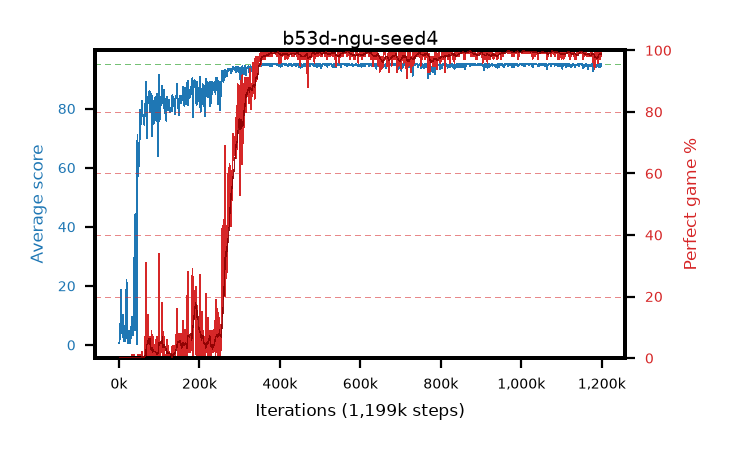
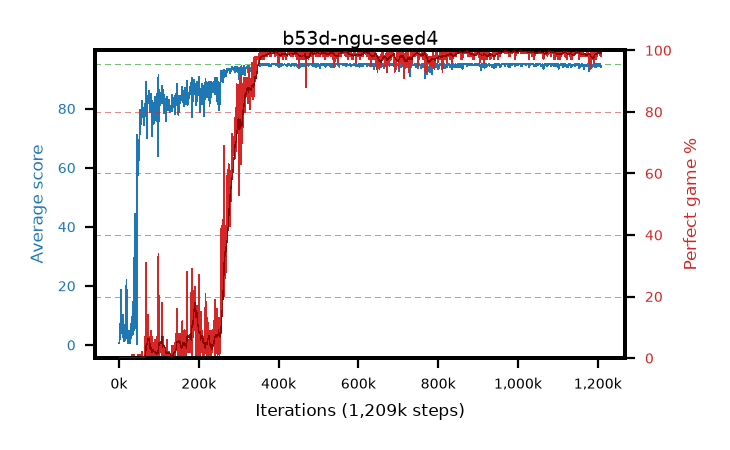
live pictures of 4 arm(s)

diff --git a/results/b53d-ngu-seed4/b53d-ngu-seed4.md b/results/b53d-ngu-seed4/b53d-ngu-seed4.md
@@ -1,6 +1,6 @@
 # b53d-ngu-seed4
 
-step **1,199,000** · 1199 evals · trailing **94.55** · peak **94.94** @1,040,000 · sef **74.8** · best30 **99.7** @1,024,000
+step **1,209,000** · 1209 evals · trailing **94.59** · peak **94.94** @1,040,000 · sef **75.0** · best30 **99.7** @1,024,000
 
 ## Config
 
@@ -80,15 +80,15 @@ step **1,199,000** · 1199 evals · trailing **94.55** · peak **94.94** @1,040,
 | 2000 | 2.39 | 1.47 | 0.0 | 8.0 | 1.286 | 0.0 | 0.4 |
 | 3000 | 6.99 | 3.31 | 0.0 | 25.0 | 5.34 | 0.0 | 0.4 |
 | ... | ... | ... | ... | ... | ... | ... | ... |
-| 1188000 | 94.45 | 94.54 | 40.0 | 95.0 | 192.115 | 99.0 | 0.4 |
-| 1189000 | 95.0 | 94.56 | 95.0 | 95.0 | 193.72 | 100.0 | 0.4 |
-| 1190000 | 94.49 | 94.54 | 44.0 | 95.0 | 192.139 | 99.0 | 0.4 |
-| 1191000 | 94.75 | 94.54 | 83.0 | 95.0 | 189.392 | 96.0 | 0.4 |
-| 1192000 | 94.21 | 94.52 | 16.0 | 95.0 | 191.887 | 99.0 | 0.4 |
-| 1193000 | 95.0 | 94.53 | 95.0 | 95.0 | 193.701 | 100.0 | 0.4 |
-| 1194000 | 95.0 | 94.54 | 95.0 | 95.0 | 193.717 | 100.0 | 0.4 |
-| 1195000 | 95.0 | 94.54 | 95.0 | 95.0 | 193.72 | 100.0 | 0.4 |
-| 1196000 | 93.96 | 94.55 | 42.0 | 95.0 | 189.551 | 97.0 | 0.4 |
-| 1197000 | 94.31 | 94.56 | 26.0 | 95.0 | 191.983 | 99.0 | 0.4 |
 | 1198000 | 95.0 | 94.57 | 95.0 | 95.0 | 193.711 | 100.0 | 0.4 |
 | 1199000 | 94.31 | 94.55 | 29.0 | 95.0 | 190.94 | 98.0 | 0.4 |
+| 1200000 | 95.0 | 94.55 | 95.0 | 95.0 | 193.718 | 100.0 | 0.4 |
+| 1201000 | 94.95 | 94.56 | 90.0 | 95.0 | 192.662 | 99.0 | 0.4 |
+| 1202000 | 94.95 | 94.56 | 90.0 | 95.0 | 192.673 | 99.0 | 0.4 |
+| 1203000 | 94.34 | 94.56 | 29.0 | 95.0 | 192.022 | 99.0 | 0.4 |
+| 1204000 | 95.0 | 94.56 | 95.0 | 95.0 | 193.723 | 100.0 | 0.4 |
+| 1205000 | 95.0 | 94.56 | 95.0 | 95.0 | 193.712 | 100.0 | 0.4 |
+| 1206000 | 94.95 | 94.55 | 90.0 | 95.0 | 192.626 | 99.0 | 0.4 |
+| 1207000 | 94.23 | 94.56 | 23.0 | 95.0 | 190.915 | 98.0 | 0.4 |
+| 1208000 | 94.52 | 94.54 | 47.0 | 95.0 | 192.204 | 99.0 | 0.4 |
+| 1209000 | 94.25 | 94.59 | 20.0 | 95.0 | 191.931 | 99.0 | 0.4 |

diff --git a/results/b53a-ngu-seed1/b53a-ngu-seed1.md b/results/b53a-ngu-seed1/b53a-ngu-seed1.md
@@ -1,6 +1,6 @@
 # b53a-ngu-seed1
 
-step **1,199,000** · 1199 evals · trailing **94.63** · peak **94.96** @643,000 · sef **76.6** · best30 **99.7** @643,000
+step **1,209,000** · 1209 evals · trailing **94.67** · peak **94.96** @643,000 · sef **76.8** · best30 **99.7** @643,000
 
 ## Config
 
@@ -80,15 +80,15 @@ step **1,199,000** · 1199 evals · trailing **94.63** · peak **94.96** @643,00
 | 2000 | 8.43 | 4.84 | 0.0 | 21.0 | 7.201 | 0.0 | 0.4 |
 | 3000 | 8.52 | 6.07 | 0.0 | 26.0 | 5.525 | 0.0 | 0.4 |
 | ... | ... | ... | ... | ... | ... | ... | ... |
-| 1188000 | 95.0 | 94.57 | 95.0 | 95.0 | 193.657 | 100.0 | 0.4 |
-| 1189000 | 94.1 | 94.55 | 5.0 | 95.0 | 191.773 | 99.0 | 0.4 |
-| 1190000 | 94.96 | 94.57 | 93.0 | 95.0 | 191.659 | 98.0 | 0.4 |
-| 1191000 | 94.93 | 94.57 | 89.0 | 95.0 | 191.567 | 98.0 | 0.4 |
-| 1192000 | 94.94 | 94.58 | 89.0 | 95.0 | 192.604 | 99.0 | 0.4 |
-| 1193000 | 94.96 | 94.59 | 91.0 | 95.0 | 192.625 | 99.0 | 0.4 |
-| 1194000 | 94.94 | 94.61 | 92.0 | 95.0 | 191.592 | 98.0 | 0.4 |
-| 1195000 | 94.64 | 94.61 | 78.0 | 95.0 | 189.261 | 96.0 | 0.4 |
-| 1196000 | 94.96 | 94.62 | 91.0 | 95.0 | 192.613 | 99.0 | 0.4 |
-| 1197000 | 94.78 | 94.63 | 73.0 | 95.0 | 192.439 | 99.0 | 0.4 |
 | 1198000 | 94.12 | 94.6 | 13.0 | 95.0 | 189.75 | 97.0 | 0.4 |
 | 1199000 | 94.81 | 94.63 | 85.0 | 95.0 | 190.441 | 97.0 | 0.4 |
+| 1200000 | 94.81 | 94.66 | 79.0 | 95.0 | 191.475 | 98.0 | 0.4 |
+| 1201000 | 94.41 | 94.67 | 36.0 | 95.0 | 192.068 | 99.0 | 0.4 |
+| 1202000 | 94.16 | 94.65 | 50.0 | 95.0 | 188.793 | 96.0 | 0.4 |
+| 1203000 | 94.62 | 94.68 | 60.0 | 95.0 | 191.277 | 98.0 | 0.4 |
+| 1204000 | 93.96 | 94.65 | 20.0 | 95.0 | 190.595 | 98.0 | 0.4 |
+| 1205000 | 94.83 | 94.65 | 78.0 | 95.0 | 192.494 | 99.0 | 0.4 |
+| 1206000 | 94.98 | 94.66 | 93.0 | 95.0 | 192.667 | 99.0 | 0.4 |
+| 1207000 | 95.0 | 94.66 | 95.0 | 95.0 | 193.688 | 100.0 | 0.4 |
+| 1208000 | 95.0 | 94.67 | 95.0 | 95.0 | 193.68 | 100.0 | 0.4 |
+| 1209000 | 94.93 | 94.67 | 88.0 | 95.0 | 192.624 | 99.0 | 0.4 |

diff --git a/results/b53c-ngu-seed3/b53c-ngu-seed3.md b/results/b53c-ngu-seed3/b53c-ngu-seed3.md
@@ -1,6 +1,6 @@
 # b53c-ngu-seed3
 
-step **1,189,000** · 1189 evals · trailing **94.77** · peak **94.93** @574,000 · sef **80.7** · best30 **99.6** @585,000
+step **1,199,000** · 1199 evals · trailing **94.8** · peak **94.93** @574,000 · sef **80.9** · best30 **99.6** @585,000
 
 ## Config
 
@@ -80,15 +80,15 @@ step **1,189,000** · 1189 evals · trailing **94.77** · peak **94.93** @574,00
 | 2000 | 6.19 | 3.38 | 0.0 | 14.0 | 2.147 | 0.0 | 0.4 |
 | 3000 | 12.02 | 6.26 | 1.0 | 18.0 | 7.496 | 0.0 | 0.4 |
 | ... | ... | ... | ... | ... | ... | ... | ... |
-| 1178000 | 94.64 | 94.68 | 59.0 | 95.0 | 192.301 | 99.0 | 0.4 |
-| 1179000 | 94.91 | 94.68 | 86.0 | 95.0 | 192.578 | 99.0 | 0.4 |
-| 1180000 | 94.97 | 94.68 | 92.0 | 95.0 | 192.627 | 99.0 | 0.4 |
-| 1181000 | 95.0 | 94.73 | 95.0 | 95.0 | 193.717 | 100.0 | 0.4 |
-| 1182000 | 95.0 | 94.77 | 95.0 | 95.0 | 193.705 | 100.0 | 0.4 |
-| 1183000 | 95.0 | 94.77 | 95.0 | 95.0 | 193.715 | 100.0 | 0.4 |
-| 1184000 | 95.0 | 94.77 | 95.0 | 95.0 | 193.711 | 100.0 | 0.4 |
-| 1185000 | 95.0 | 94.77 | 95.0 | 95.0 | 193.704 | 100.0 | 0.4 |
-| 1186000 | 94.91 | 94.77 | 86.0 | 95.0 | 192.581 | 99.0 | 0.4 |
-| 1187000 | 95.0 | 94.79 | 95.0 | 95.0 | 193.692 | 100.0 | 0.4 |
 | 1188000 | 95.0 | 94.79 | 95.0 | 95.0 | 193.71 | 100.0 | 0.4 |
 | 1189000 | 94.55 | 94.77 | 50.0 | 95.0 | 192.228 | 99.0 | 0.4 |
+| 1190000 | 94.84 | 94.77 | 87.0 | 95.0 | 190.45 | 97.0 | 0.4 |
+| 1191000 | 94.69 | 94.76 | 75.0 | 95.0 | 191.306 | 98.0 | 0.4 |
+| 1192000 | 95.0 | 94.76 | 95.0 | 95.0 | 193.71 | 100.0 | 0.4 |
+| 1193000 | 94.88 | 94.79 | 83.0 | 95.0 | 192.558 | 99.0 | 0.4 |
+| 1194000 | 94.34 | 94.77 | 32.0 | 95.0 | 191.011 | 98.0 | 0.4 |
+| 1195000 | 94.88 | 94.78 | 83.0 | 95.0 | 192.596 | 99.0 | 0.4 |
+| 1196000 | 94.97 | 94.79 | 92.0 | 95.0 | 192.635 | 99.0 | 0.4 |
+| 1197000 | 95.0 | 94.8 | 95.0 | 95.0 | 193.719 | 100.0 | 0.4 |
+| 1198000 | 94.99 | 94.8 | 94.0 | 95.0 | 192.632 | 99.0 | 0.4 |
+| 1199000 | 94.15 | 94.8 | 18.0 | 95.0 | 189.731 | 97.0 | 0.4 |
